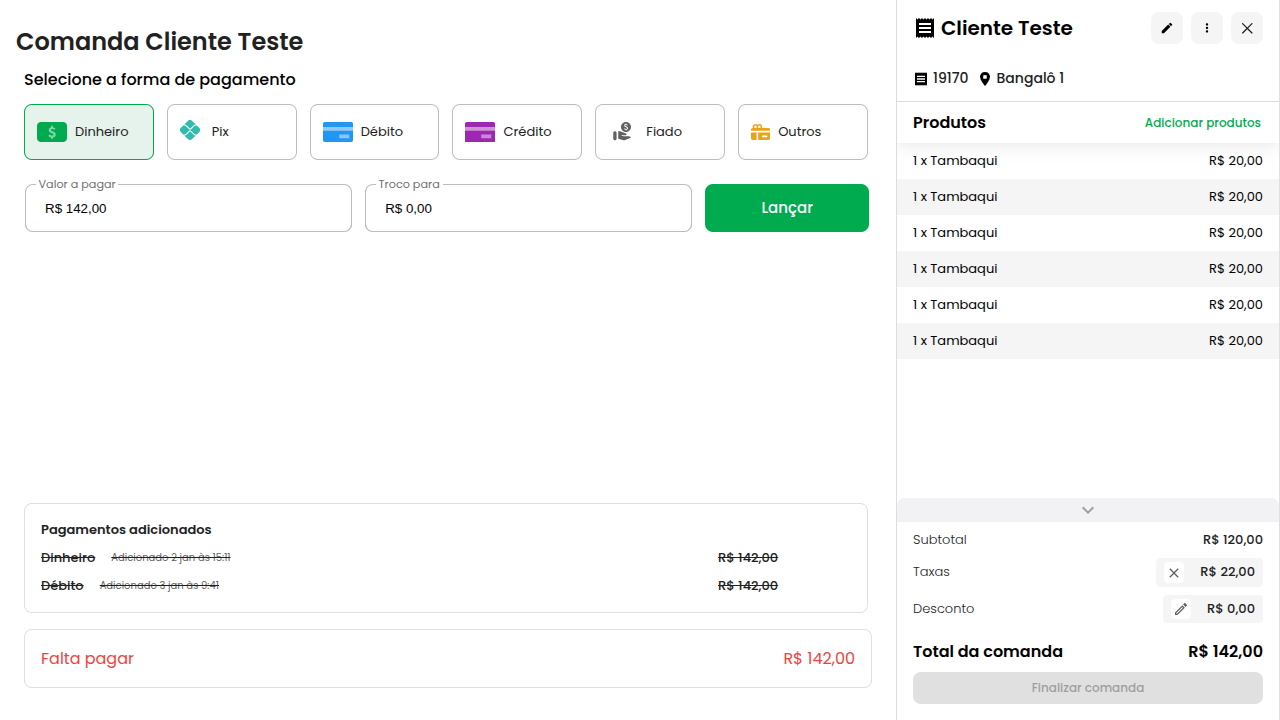
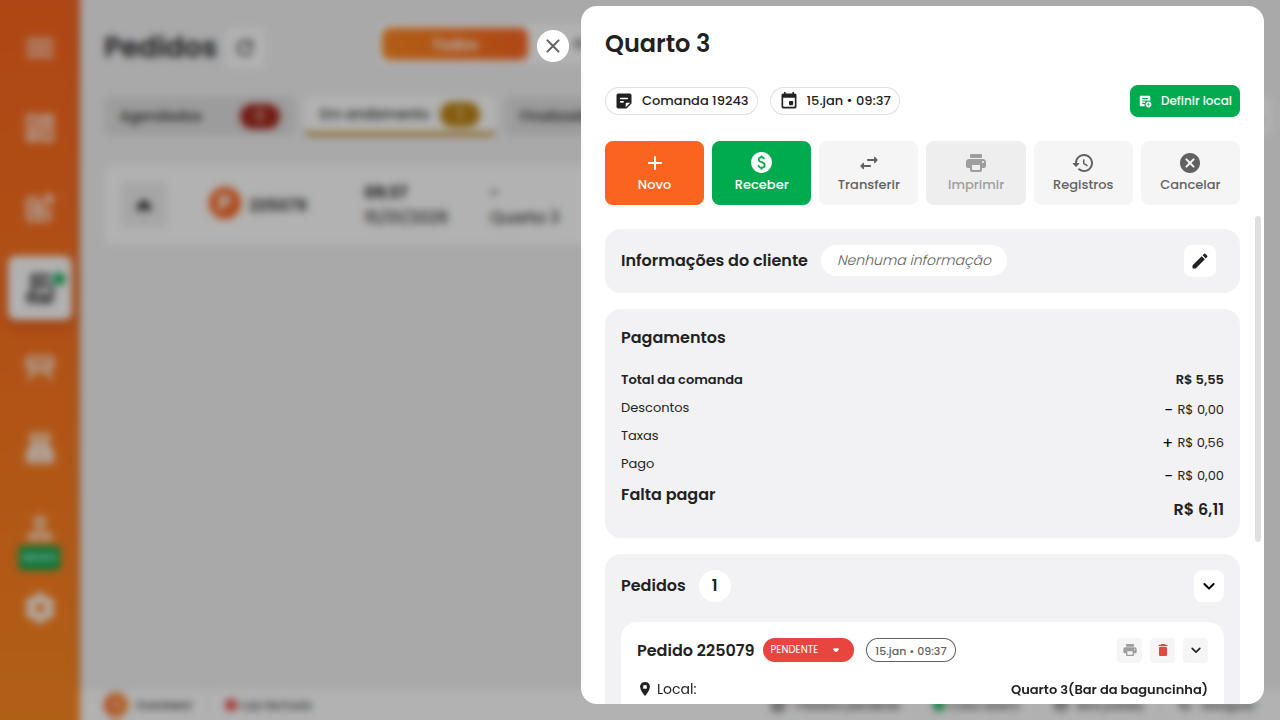
Fix selectors in order management test

diff --git a/models/web/payment_modal.py b/models/web/payment_modal.py
@@ -1,16 +1,16 @@
 from playwright.sync_api import Page, expect
 from models.web.base_page import BasePage
-import re 
+import re
+import time 
 class PaymentModal(BasePage):
     def __init__(self, page: Page):
         super().__init__(page)
 
         # Definimos os dois possíveis pais
-        self.modal_order_balcony = page.locator("div.ReactModal__Content")
+        self.modal_order_balcony = page.get_by_role("dialog", name="Confirmar pagamento")
         self.modal_mesa = page.locator("div").filter(has_text="Selecione a forma de pagamento").last 
         self.modal_content = self.modal_order_balcony.or_(self.modal_mesa)
 
-        # Agora podemos encadear os botões sem erro, pois self.modal_content sempre existe
         self.btn_money = self.modal_content.locator("button", has_text="Dinheiro")
         self.btn_pix = self.modal_content.locator("button", has_text="Pix")
         self.btn_debit = self.modal_content.locator("button", has_text="Débito")
@@ -22,9 +22,9 @@ class PaymentModal(BasePage):
         # Botões de ação
         self.btn_launch = self.modal_content.locator("button", has_text="Lançar")
         self.btn_finalize = self.page.locator("button", has_text="Finalizar Comanda")
-        self.btn_confirm = self.modal_content.locator("button", has_text="Confirmar")
+        self.btn_confirm = page.locator("button", has_text="Confirmar")
         self.btn_cancel_modal = self.modal_content.locator("button", has_text="Cancelar").last
-        self.missing_amount_text = self.modal_content.locator("div", has_text="Falta pagar").last
+        self.missing_amount_text = page.locator("div", has_text="Falta pagar").last
 
 
     def select_payment_method(self, method: str):
@@ -62,10 +62,10 @@ class PaymentModal(BasePage):
             return  
         print("🚀 Clicando Lançar")
         self.btn_launch.click()
-        self.page.wait_for_timeout(500)
+        self.page.wait_for_timeout(5000)
 
     def get_remaining_amount(self) -> str:
-        self.missing_amount_text.wait_for()
+        self.missing_amount_text.wait_for(state="visible", timeout=2000)
         return self.missing_amount_text.inner_text().replace("Falta pagar", "").replace("\xa0", " ").strip()
 
     def finalize_order_sheet(self):
@@ -75,5 +75,10 @@ class PaymentModal(BasePage):
         self.btn_finalize.click()
 
     def confirm_payment(self):
+        print("Ciicando em confirmar/enviar...")
         self.btn_confirm.click()
-        expect(self.modal_content).to_be_hidden(timeout=10000)
+        self.modal_content.wait_for(state="hidden", timeout=10000)
+
+    def remove_staged_payment(self):
+        print("Aqui na remoção")
+        

diff --git a/tests/web/test_order_management.py b/tests/web/test_order_management.py
@@ -21,16 +21,12 @@ def test_split_payment_pix_and_cash(logged_in_page):
     
     # 1. Pix (Parcial)
     payment_modal.select_payment_method("Pix")
-    # Tente passar exatamente como você faria manualmente. 
-    # Se o campo já tem R$, mande só o numero.
     payment_modal.fill_amount("0,10") 
     payment_modal.launch_payment()
     
     # Validação rápida
     remaining = payment_modal.get_remaining_amount()
     assert "R$ 0,00" not in remaining, f"Erro: Zerou cedo demais! Restante: {remaining}"
-    
-    # 2. Dinheiro (Restante)
     payment_modal.select_payment_method("Dinheiro")
     payment_modal.launch_payment()
     
@@ -61,11 +57,8 @@ def test_add_remove_payment_logic(logged_in_page):
     if not order_id:
         pytest.skip("Sem pedidos pendentes.")
 
-    # 1. Lança pagamento total (Dinheiro)
     payment_modal.select_payment_method("Dinheiro")
     payment_modal.launch_payment()
-
-    # Verifica se zerou a falta
     assert "R$ 0,00" in payment_modal.get_remaining_amount()
 
     # 2. Ops, errei! Vou remover.
@@ -79,11 +72,6 @@ def test_add_remove_payment_logic(logged_in_page):
     # 4. Cancela tudo (fecha modal)
     payment_modal.close_without_saving()
 
-    # 5. Valida que o pedido NÃO mudou de status na lista
-    # Como cancelamos, ele deve continuar como "Não pago"
-    # Precisamos de um método para validar 'Não Pago' na OrderPage
-    # (Adicione este método simples na OrderManagementPage se não tiver)
-    # expect(orders_page.get_order_row(order_id)).to_contain_text("Não pago")
     print("✅ Teste de cancelamento concluído com sucesso.")
 
 
@@ -105,23 +93,18 @@ def test_pay_all_unpaid_orders(logged_in_page):
 
     orders_paid_count = 0
 
-    # 2. Loop: Enquanto encontrar pedidos não pagos...
     while True:
-        # Tenta abrir o próximo pedido não pago e pega o ID
         order_id = orders_page.open_first_unpaid_order()
 
-        # Se retornou None, significa que não tem mais pedidos para pagar. Sai do loop.
         if not order_id:
             print("🏁 Não há mais pedidos pendentes na lista.")
             break
 
-        # 3. Realiza o pagamento no Modal
-        payment_modal.select_payment_method("Dinheiro")
+        payment_modal.select_payment_method("Pix")
         payment_modal.launch_payment()
         payment_modal.confirm_payment()
 
         # 4. Validação Específica por ID
-        # Espera um pouco para o front atualizar o status
         logged_in_page.wait_for_timeout(1000) 
         orders_page.verify_order_is_paid(order_id)
         

diff --git a/models/web/order_management_page.py b/models/web/order_management_page.py
@@ -5,7 +5,7 @@ from models.web.base_page import BasePage
 class OrderManagementPage(BasePage):
     def __init__(self, page: Page):
         super().__init__(page)
-        self.order_rows = page.locator("tbody tr") # Assumindo estrutura de tabela
+        self.order_rows = page.locator("tbody tr")
         self.tab_in_progress = page.get_by_text("Em andamento")
 
     def filter_by_in_progress(self):
@@ -13,7 +13,6 @@ class OrderManagementPage(BasePage):
         self.page.wait_for_load_state("networkidle")
 
     def get_count_of_unpaid_orders(self):
-        """Conta quantos botões 'Não pago' visíveis existem."""
         return self.page.locator("text=Não pago").count()
 
     def open_first_unpaid_order(self):
@@ -26,8 +25,6 @@ class OrderManagementPage(BasePage):
             order_id = match.group() if match else "ID_DESCONHECIDO"
             
             print(f"🔍 Abrindo pagamento do pedido ID: {order_id}")
-            
-            # Clica no botão "Não pago" dentro dessa linha
             unpaid_row.get_by_text("Não pago", exact=True).click()
             return order_id
         
@@ -39,5 +36,7 @@ class OrderManagementPage(BasePage):
         
         expect(status_recebido).to_be_visible()
         print(f"✅ Pedido {order_id} confirmado como PAGO.")
+
+    
 
     

diff --git a/models/web/new_order_page.py b/models/web/new_order_page.py
@@ -15,10 +15,9 @@ class NewOrderPage:
         self.search_product_input = page.get_by_placeholder("Busque por produto")
         self.payments_buttons = page.get_by_role("button", name="Pagamentos")
         self.submit_payment_button = page.get_by_role("button", name="Lançar")
-        self.customer_search_input = page.get_by_role("complementary").get_by_role("textbox").first
+        self.customer_search_input = self.page.locator("label").filter(has_text="Nome do cliente").locator("..").locator("input").first
 
         self.asside_side = page.locator("aside", has_text="Balcão")
-        self.withdrawal = self.asside_side.get_by_role("span", name="Retirada")
 
 
     def navigate(self):
@@ -31,6 +30,8 @@ class NewOrderPage:
 
     def select_order_type_withdrawal(self):
         self.page.get_by_text("Retirada", exact=True).click()
+        
+
 
     def select_order_type_delivery(self):
         self.page.get_by_text("Delivery", exact=True).click()

diff --git a/tests/web/test_single_orders.py b/tests/web/test_single_orders.py
@@ -79,6 +79,7 @@ def test_create_order_withdrawal(logged_in_page: Page):
         new_order_page.search_and_select_customer(Customers.DEFAULT_CUSTOMER)
         new_order_page.select_order_type_withdrawal()  
         new_order_page.add_product_to_order(Products.TAMBAQUI)
+        
         new_order_page.proceed_to_payment()
 
         payment_page.select_payment_method(payment_method)
@@ -99,9 +100,8 @@ def test_create_order_delivery(logged_in_page: Page):
         print(f"🔄 Testando Delivery com: {payment_method}")
 
         dashboard_page.go_to_new_order()
-
-        new_order_page.select_order_type_delivery()
         new_order_page.search_and_select_customer(Customers.DEFAULT_CUSTOMER)
+        new_order_page.select_order_type_delivery()
         new_order_page.add_product_to_order(Products.TAMBAQUI)
         new_order_page.proceed_to_payment()
         
